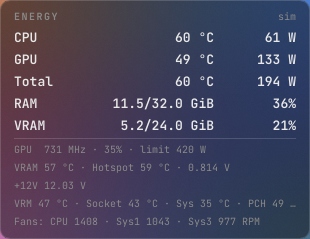
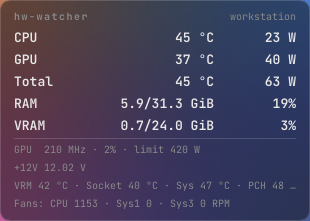
Show hw-watcher and the computer name in the widget header
The header still read "ENERGY" (the old app name) and showed the source
tag (local/daemon). It now shows "hw-watcher" and the computer name, with
HW_WATCHER_NAME as an override; simulated readings are labelled "sim".

- New host module with a tested name clip, view model takes the name
- Widget tab toggle renamed to "Computer name in the header"
- Version 0.1.2, changelog, usage docs and screenshots refreshed

diff --git a/crates/hw-watcher-panel/src/view_model_tests.rs b/crates/hw-watcher-panel/src/view_model_tests.rs
@@ -36,8 +36,13 @@ fn unprivileged_view_hides_total_and_elevated_footer() {
         ..Default::default()
     };
 
-    let view = build_panel_view(&sample, &PanelConfig::default(), &IdentityTranslator);
-    assert_eq!(view.source_badge, "local");
+    let view = build_panel_view(
+        &sample,
+        &PanelConfig::default(),
+        "my-pc",
+        &IdentityTranslator,
+    );
+    assert_eq!(view.source_badge, "my-pc");
     let labels: Vec<&str> = view.rows.iter().map(|r| r.label.as_str()).collect();
     assert_eq!(labels, vec!["CPU", "GPU", "RAM", "VRAM"]);
     assert_eq!(view.rows[0].col1, "55 °C");
@@ -82,7 +87,7 @@ fn multi_device_separation_and_custom_item_colors_apply() {
     cfg.theme
         .item_label_colors
         .insert("cpu:0".into(), "#56d4dd".into());
-    let view = build_panel_view(&sample, &cfg, &IdentityTranslator);
+    let view = build_panel_view(&sample, &cfg, "my-pc", &IdentityTranslator);
     let labels: Vec<&str> = view.rows.iter().map(|r| r.label.as_str()).collect();
     assert_eq!(labels, vec!["CPU 0", "CPU 1", "GPU 0", "GPU 1", "Total"]);
     assert_eq!(
@@ -90,4 +95,24 @@ fn multi_device_separation_and_custom_item_colors_apply() {
         Color::from_rgb_u8(0x56, 0xd4, 0xdd)
     );
     assert_eq!(view.rows[4].col2, "445 W");
+}
+
+#[test]
+fn badge_shows_sim_for_simulated_readings_and_can_be_hidden() {
+    let sample = Sample {
+        origin: SourceOrigin::Simulated,
+        ..Default::default()
+    };
+    let view = build_panel_view(
+        &sample,
+        &PanelConfig::default(),
+        "my-pc",
+        &IdentityTranslator,
+    );
+    assert_eq!(view.source_badge, "sim");
+
+    let mut cfg = PanelConfig::default();
+    cfg.widget_items.show_source_badge = false;
+    let hidden = build_panel_view(&Sample::default(), &cfg, "my-pc", &IdentityTranslator);
+    assert_eq!(hidden.source_badge, "");
 }

diff --git a/crates/hw-watcher-panel/src/view_model.rs b/crates/hw-watcher-panel/src/view_model.rs
@@ -33,7 +33,7 @@ pub struct RowView {
 /// Complete view-model rendered by `ui/panel.slint`.
 #[derive(Debug, Clone, PartialEq)]
 pub struct PanelView {
-    /// Short origin tag (`"daemon"`, `"local"`, `"sim"`), empty if hidden.
+    /// Computer name (or `"sim"` for simulated readings) shown in the header, empty if hidden.
     pub source_badge: String,
     /// Visible metric rows (unavailable or disabled sensors are omitted).
     pub rows: Vec<RowView>,
@@ -50,7 +50,13 @@ pub struct PanelView {
 }
 
 /// Builds a [`PanelView`] from `sample` and `cfg`, omitting disabled or missing sensors.
-pub fn build_panel_view(sample: &Sample, cfg: &PanelConfig, tr: &dyn Translator) -> PanelView {
+/// `computer` is the name shown in the header.
+pub fn build_panel_view(
+    sample: &Sample,
+    cfg: &PanelConfig,
+    computer: &str,
+    tr: &dyn Translator,
+) -> PanelView {
     let mut rows = Vec::new();
     let theme = &cfg.theme;
 
@@ -75,14 +81,11 @@ pub fn build_panel_view(sample: &Sample, cfg: &PanelConfig, tr: &dyn Translator)
     }
     push_memory_rows(sample, cfg, tr, &mut rows);
 
-    let source_badge = if cfg.widget_items.show_source_badge {
-        match sample.origin {
-            SourceOrigin::Daemon => tr.translate("daemon").into_owned(),
-            SourceOrigin::Local => tr.translate("local").into_owned(),
-            SourceOrigin::Simulated => tr.translate("sim").into_owned(),
-        }
-    } else {
-        String::new()
+    // Simulated readings are labelled as such instead of carrying the real computer name.
+    let source_badge = match (cfg.widget_items.show_source_badge, sample.origin) {
+        (false, _) => String::new(),
+        (true, SourceOrigin::Simulated) => tr.translate("sim").into_owned(),
+        (true, _) => computer.to_owned(),
     };
 
     PanelView {

diff --git a/crates/hw-watcher-panel/src/host.rs b/crates/hw-watcher-panel/src/host.rs
@@ -1,0 +1,43 @@
+// SPDX-License-Identifier: GPL-3.0-only
+// Copyright (C) 2026 AbnerMSaconi
+
+//! Computer name shown in the widget header.
+
+use std::fs;
+
+/// Longest name shown; longer host names are cut so they never crowd the header.
+const MAX_CHARS: usize = 24;
+
+/// Name of this computer: `HW_WATCHER_NAME` when set (useful for demos and screenshots),
+/// otherwise the system host name. Empty when neither is available.
+pub fn computer_name() -> String {
+    let raw = std::env::var("HW_WATCHER_NAME")
+        .ok()
+        .filter(|v| !v.trim().is_empty())
+        .or_else(|| fs::read_to_string("/proc/sys/kernel/hostname").ok())
+        .or_else(|| fs::read_to_string("/etc/hostname").ok())
+        .unwrap_or_default();
+    clip(raw.trim())
+}
+
+fn clip(name: &str) -> String {
+    if name.chars().count() <= MAX_CHARS {
+        return name.to_owned();
+    }
+    let head: String = name.chars().take(MAX_CHARS - 1).collect();
+    format!("{head}…")
+}
+
+#[cfg(test)]
+mod tests {
+    use super::clip;
+
+    #[test]
+    fn keeps_short_names_and_clips_long_ones() {
+        assert_eq!(clip("my-pc"), "my-pc");
+        let long = "a".repeat(40);
+        let out = clip(&long);
+        assert_eq!(out.chars().count(), 24);
+        assert!(out.ends_with('…'));
+    }
+}

diff --git a/crates/hw-watcher-panel/src/app.rs b/crates/hw-watcher-panel/src/app.rs
@@ -175,7 +175,7 @@ pub(crate) fn push_ui_if_changed(
     prev_view: &mut Option<PanelView>,
     tr: PoTranslator,
 ) {
-    let view = build_panel_view(sample, cfg, &tr);
+    let view = build_panel_view(sample, cfg, &crate::host::computer_name(), &tr);
     if prev_view.as_ref() == Some(&view) {
         return;
     }

diff --git a/crates/hw-watcher-panel/src/main.rs b/crates/hw-watcher-panel/src/main.rs
@@ -11,6 +11,7 @@ mod app_commands;
 mod cli;
 mod config;
 mod daemon;
+mod host;
 mod i18n;
 mod service;
 mod settings_state;

diff --git a/docs/USAGE.md b/docs/USAGE.md
@@ -60,6 +60,7 @@ Flags shared by `panel`, `sample` and `follow`:
   top, hide from taskbar, which metric the badge shows, tooltip sections, Control Panel and Quit.
 - The tray shows 0 to 8 badges. Each badge is one metric (total power, GPU temperature, RAM %, ...)
   and the tooltip lists the details.
+- The header shows `hw-watcher` and, on the right, the computer name (the host name, or the value of `HW_WATCHER_NAME`); turn it off in Widget → "Computer name in the header".
 - Rows and footer lines whose sensor cannot be read are hidden instead of showing blanks.
 
 ## Control Panel
@@ -98,7 +99,7 @@ defaults on the next save. Main keys: `x`, `y`, `visible`, `always_on_top`, `ski
 `interval_ms`, `separate_cpus`, `separate_gpus`, `tray_count`, `tray_metrics`, and the `[tooltip]`,
 `[widget_items]` and `[theme]` tables.
 
-Environment variable: `HW_WATCHER_WAYLAND=1` opts into the experimental native Wayland backend
+Environment variables: `HW_WATCHER_NAME` sets the computer name shown in the widget header, and `HW_WATCHER_WAYLAND=1` opts into the experimental native Wayland backend
 (see `COMPATIBILITY.md`).
 
 ## Troubleshooting

diff --git a/CHANGELOG.md b/CHANGELOG.md
@@ -1,5 +1,10 @@
 # Changelog
 
+## 0.1.2
+
+### Changed
+- The widget header now reads `hw-watcher` (it still showed the old "ENERGY" name) and shows the name of the computer in place of the `local` / `daemon` source tag. The name is the system host name, cut at 24 characters; set `HW_WATCHER_NAME` to show another one. Simulated readings are labelled `sim`. The Widget tab toggle is now "Computer name in the header".
+
 ## 0.1.1
 
 ### Fixed

diff --git a/README.md b/README.md
@@ -13,7 +13,7 @@ Lightweight Linux telemetry for CPU, GPU, motherboard, system RAM and GPU VRAM: 
   <img src="docs/screenshots/settings-appearance.png" alt="Control Panel, Appearance tab" width="400">
 </p>
 
-<sub>Screenshots use simulated readings (`--simulate`).</sub>
+<sub>Readings are from a real machine; the computer name in the header is an example (`HW_WATCHER_NAME`).</sub>
 
 ## Install
 
